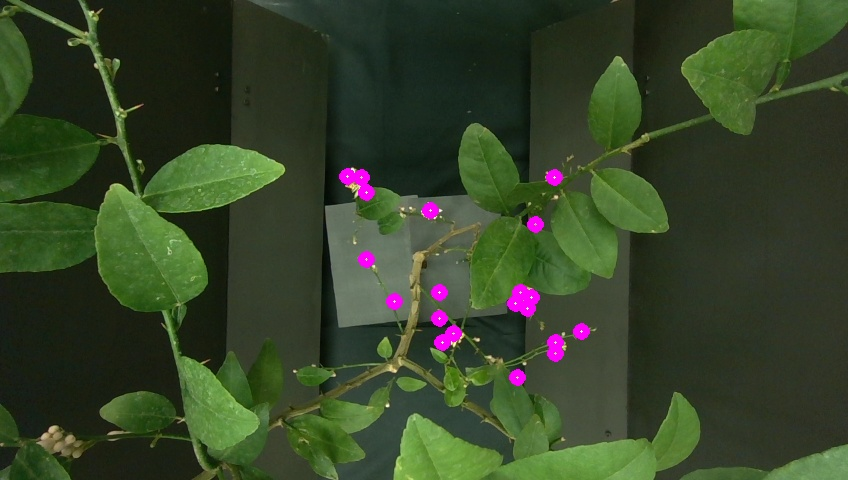
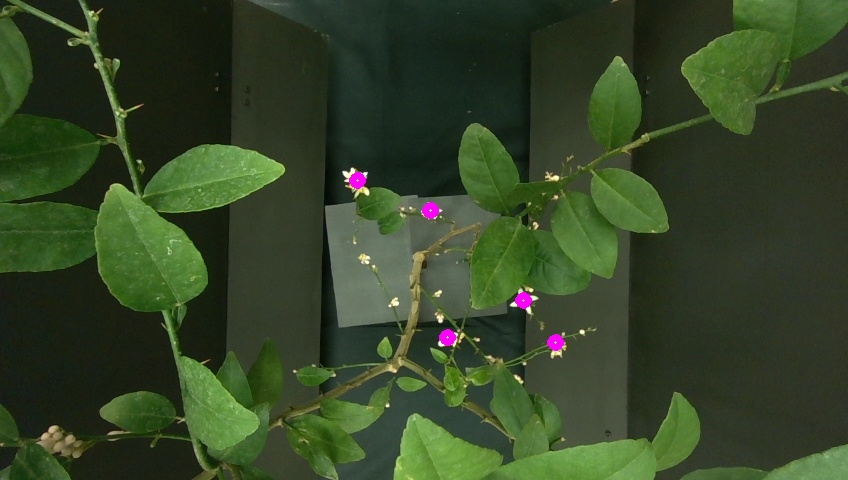
yellow

diff --git a/jetson/src/core/imaging.cpp b/jetson/src/core/imaging.cpp
@@ -27,11 +27,11 @@ cv::Mat toGreyscale(cv::Mat& image) {
 	return greyscale;
 }
 
-double brightestPixelVal(cv::Mat& image) {
+double brightestPixelVal(cv::Mat& image, Point2D topLeft, double width, double height) {
 	double brightestPix = 0;
-	for (int i = 0; i < image.rows; i++) {
-		for (int j = 0; j < image.cols; j++) {
-			cv::Point3_<uchar>* p = image.ptr<cv::Point3_<uchar> >(i, j);
+	for (int i = 0; i < height; i++) {
+		for (int j = 0; j < width; j++) {
+			cv::Point3_<uchar>* p = image.ptr<cv::Point3_<uchar> >(i + topLeft.y, j + topLeft.x);
 			double greyscale = toGreyscale({ p->x, p->y, p->z });
 			if (greyscale > brightestPix) {
 				brightestPix = greyscale;
@@ -71,7 +71,7 @@ cv::Mat colorMask(cv::Mat& image, Pixel ideal, double angleTol, double lengthTol
 	return thresholded;
 }
 
-cv::Mat whiteMask(cv::Mat& image, uint8_t brightest) {
+cv::Mat whiteMask(cv::Mat& image) {
 	cv::Mat thresholded =  cv::Mat::zeros(cv::Size(image.cols, image.rows), CV_8UC1);;
 
 	for (int i = 0; i < image.rows; i++) {
@@ -81,7 +81,7 @@ cv::Mat whiteMask(cv::Mat& image, uint8_t brightest) {
 			double r = p->x;
 			double g = p->y;
 			double b = p->z;
-			if (g/r > 0.6 && g/r < 1.4 && g/b > 0.6 && g/b < 1.4 && (r + g + b)/3 > 180) {
+			if (g/r > 0.6 && g/r < 1.4 && g/b > 0.6 && g/b < 1.4 && (r + g + b)/3 > 190) {
 				thresholded.at<uchar>(i, j) = 255;
 			}
 		}
@@ -109,13 +109,45 @@ cv::Mat greenMask(cv::Mat& image) {
 	return thresholded;
 }
 
-std::vector<Point2D> findFlowerCenters(cv::Mat& image, Camera & cam, std::string const & tag){
+bool nearYellow(cv::Mat& image, cv::Mat& yellow, Point2D topLeft, int width, int height, double area){
+	double brightest = brightestPixelVal(image, topLeft, width, height);
+	log(std::string("brightest: ") + std::to_string(brightest));
+
+	int startY = std::max(0, int(topLeft.y - 2*height));
+	int startX = std::max(0, int(topLeft.x - 2*width));
+
+	int endY = std::min(image.rows, int(topLeft.y + 2*height));
+	int endX = std::min(image.cols, int(topLeft.x + 2*width));
+
+	log(std::to_string(startY) + std::string(" ") + std::to_string(startX) );
+	log(std::to_string(endY) + std::string(" ") + std::to_string(endX) );
+
+	int numYellow = 0;
+	for (int i = startY; i < endY; i++) {
+		for (int j = startX; j < endX; j++) {
+			cv::Point3_<uchar>* p = image.ptr<cv::Point3_<uchar> >(i, j);
+			// need double not uint8 bc values might go > 255 in the math
+			double r = p->x;
+			double g = p->y;
+			double b = p->z;
+			if (r > brightest * 0.5 && g > brightest * 0.5 && 
+				g > b * 1.5 && r > b * 1.5 &&
+				r < g * 1.2 && g < r * 1.2) {
+				yellow.at<uchar>(i, j) = 255;
+				numYellow++;
+			}
+		}
+	}
+	log(std::string("numYellow: ") + std::to_string(numYellow));
+	log(std::string("area: ") + std::to_string(area));
+	return numYellow > area * 0.5 && numYellow > 25;
+}
+
+std::vector<Point2D> findFlowerCenters(cv::Mat& image, std::string const & tag){
 	std::vector<Point2D> whiteBlobs;
+	cv::Mat yellow =  cv::Mat::zeros(cv::Size(image.cols, image.rows), CV_8UC1);;
 
-	uint8_t brightest = (uint8_t) brightestPixelVal(image);
-	log(std::string("brightest pixel value: ") + std::to_string(brightest));
-
-	cv::Mat white = whiteMask(image, brightest);
+	cv::Mat white = whiteMask(image);
 	cv::imwrite("./plots/" + tag + "_white.png", white);
 
 	cv::Mat labels, stats, centroids;
@@ -131,11 +163,18 @@ std::vector<Point2D> findFlowerCenters(cv::Mat& image, Camera & cam, std::string
 		double centerY = centroids.at<double>(i, 1);
 		float x = centerX/width;
 		float y = centerY/height;
-		if (	stats.at<int>(i, cv::CC_STAT_AREA) > 10 
-			&& cam.getDepthVal(x, y) < 0.65) {
+		if (stats.at<int>(i, cv::CC_STAT_AREA) > 10 && 
+			nearYellow(image, yellow, 
+			Point2D(stats.at<int>(i, cv::CC_STAT_LEFT), stats.at<int>(i, cv::CC_STAT_TOP)), 
+			stats.at<int>(i, cv::CC_STAT_WIDTH), stats.at<int>(i, cv::CC_STAT_HEIGHT), 
+			stats.at<int>(i, cv::CC_STAT_AREA)) // check that the white petal is near yellow
+			) { 
 			whiteBlobs.push_back({ centroids.at<double>(i, 0), centroids.at<double>(i, 1) });
 		}
 	}
+
+	cv::imwrite("./plots/" + tag + "_yellow.png", yellow);
+
 	return whiteBlobs;
 }
 

diff --git a/jetson/src/core/main.cpp b/jetson/src/core/main.cpp
@@ -16,6 +16,30 @@
 
 std::string const HOME = std::getenv("HOME") ? std::getenv("HOME") : ".";
 
+void test_find_flowers(){
+	cv::Mat image = cv::imread("./plots/original_image.png");
+
+	std::string tag = std::string("");
+	cv::imwrite("./plots/original_image.png", image);
+	cv::cvtColor(image, image, cv::COLOR_BGR2RGB);
+		
+	log(std::string("finding yellow blobs!!!!!!"));
+	std::vector<Point2D> yellowBlobs = findFlowerCenters(image, tag);
+	for (Point2D const& blob : yellowBlobs) {
+		log(std::string("yellow blob") + std::to_string(blob.x) + std::string(",") + std::to_string(blob.y));
+	}
+
+	std::vector<Point2D> avgCenter = avgClusterCenters(yellowBlobs, 25);
+	log(std::string("finding avgCenters!!!!!!"));
+	for (Point2D const& blob : avgCenter) {
+		cv::circle(image, cv::Point((int)blob.x, (int)blob.y), 5, { 255, 0, 255 }, 5);
+		log(std::string("avgCenter: ") + std::to_string(blob.x) + std::string(",") + std::to_string(blob.y));
+	}
+
+	cv::cvtColor(image, image, cv::COLOR_RGB2BGR);
+	cv::imwrite("plots/" + tag + "_flowers.jpg", image);
+}
+
 std::vector<Point3D> test_image_processing(Camera & cam) {
 	cv::Mat image = cam.getColorImage();
 
@@ -25,13 +49,14 @@ std::vector<Point3D> test_image_processing(Camera & cam) {
 	cv::cvtColor(image, image, cv::COLOR_BGR2RGB);
 		
 	log(std::string("finding yellow blobs!!!!!!"));
-	std::vector<Point2D> yellowBlobs = findFlowerCenters(image, cam, tag);
+	std::vector<Point2D> yellowBlobs = findFlowerCenters(image, tag);
 	for (Point2D const& blob : yellowBlobs) {
 		log(std::string("yellow blob") + std::to_string(blob.x) + std::string(",") + std::to_string(blob.y));
 	}
 	std::vector<Point2D> avgCenter = avgClusterCenters(yellowBlobs, 10);
 	log(std::string("finding avgCenters!!!!!!"));
 	for (Point2D const& blob : avgCenter) {
+		cv::circle(image, cv::Point((int)blob.x, (int)blob.y), 5, { 255, 0, 255 }, 5);
 		log(std::string("avgCenter: ") + std::to_string(blob.x) + std::string(",") + std::to_string(blob.y));
 	}
 
@@ -41,7 +66,6 @@ std::vector<Point3D> test_image_processing(Camera & cam) {
 	int height = image.rows;
 
 	for (Point2D const& blob : avgCenter) {
-		cv::circle(image, cv::Point((int)blob.x, (int)blob.y), 5, { 255, 0, 255 }, 5);
 		float x = blob.x/width;
 		float y = blob.y/height;
 		log(std::string("depth val: ") + std::to_string(cam.getDepthVal(x, y)));
@@ -201,6 +225,16 @@ void test_move_servo_arm_to_flowers(){
 	std::vector<Point3D> robotPoints = test_image_processing(cam);
 
 	for (auto const & robotPoint : robotPoints){
+		// check if point is within bounds
+		if (robotPoint.x > CARTESIAN_X_MAX || robotPoint.x < CARTESIAN_X_MIN ||
+			robotPoint.y > CARTESIAN_Y_MAX || robotPoint.y < CARTESIAN_Y_MIN ||
+			robotPoint.z > CARTESIAN_Z_MAX || robotPoint.z < CARTESIAN_Z_MIN) {
+			std::stringstream ss;
+			ss << "INFO robot: ignoring out of bound flower at: (" 
+				<< robotPoint.x << ", " << robotPoint.y << ", " << robotPoint.x << ").";
+			log(ss.str());
+			continue;
+		}
 		log(std::string("move arm to point: ") 
 		+ std::to_string(robotPoint.x) + std::string(", ") 
 		+ std::to_string(robotPoint.y) + std::string(", ")
@@ -261,9 +295,10 @@ int main(int argc, char** argv)
 {
 	initialize_log();
 	log(std::string("Starting Program!"));
+	test_find_flowers();
 	// test_camera_image();
-	Camera cam;
-	test_image_processing(cam);
+	// Camera cam;
+	// test_image_processing(cam);
 	// test_clustering();
 	// test_i2c_write();
 	// test_i2c_read();

diff --git a/jetson/src/core/robot.cpp b/jetson/src/core/robot.cpp
@@ -241,7 +241,7 @@ std::vector<Point3D> Robot::findFlowers(){
 		cv::imwrite("./plots/" + tag + "_image.png", image);
 		cv::cvtColor(image, image, cv::COLOR_BGR2RGB);
 	}
-	std::vector<Point2D> flowerCenters = findFlowerCenters(image, camera, tag);
+	std::vector<Point2D> flowerCenters = findFlowerCenters(image, tag);
 	if (DEBUG) {
 		int width = image.cols;
 		int height = image.rows;

diff --git a/jetson/include/core/imaging.h b/jetson/include/core/imaging.h
@@ -30,7 +30,7 @@ public:
 	std::vector<Point3D> getDeprojection(std::vector<Point2D> const & color_pixels);
 };
 
-std::vector<Point2D> findFlowerCenters(cv::Mat &  image, Camera & cam, std::string const & tag);
+std::vector<Point2D> findFlowerCenters(cv::Mat &  image, std::string const & tag);
 double findYCenterOfPlant(cv::Mat & image);
 
 #endif // h
